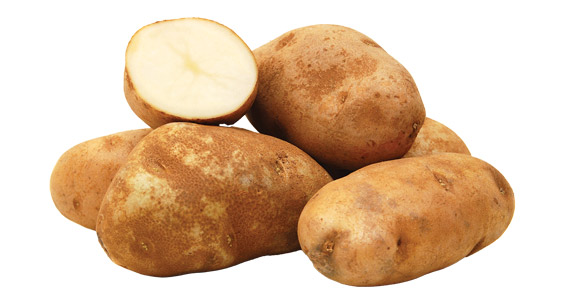
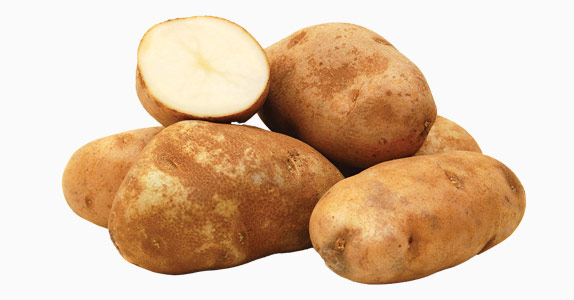
add second row of products, add Great Deals text, button and seperator line

Changed region(s): [[0.0593, 0.03, 0.9197, 0.96], [0.2967, 0.18, 0.3857, 0.27], [0.6527, 0.45, 0.6824, 0.48]]

diff --git a/index.html b/index.html
@@ -38,13 +38,15 @@
       font-size: 24px !important;
     }
     h3 {
-      margin: 10px 0 20px 0 !important;
+      margin: 0 !important;
     }
-
+    h3.productHead {
+      color: #005cab; 
+    }
     p {
       font-size: 16px;
       line-height: 20px;
-      color: #5C5C5C;
+      color: #005cab; 
       margin-top: 0;
     }
 
@@ -58,7 +60,7 @@
     }
 
     .column-wrapper {
-    padding: 0;
+    padding: 0 0 30px 0;
     font-size: 0;
     text-align: center;
     }
@@ -67,7 +69,7 @@
         vertical-align: top;
         width: 100%;
         display: inline-block;
-        color: #ffffff;
+        color: #fafafa;;
     }
     .column-one-half {
         max-width: 300px;
@@ -108,40 +110,40 @@
         text-decoration: inherit !important;
     }
 
-    a.recipe-btn,
+    a.deals-btn,
     a.site-btn,
     a.lifestyle-btn,
     a.optical-btn {
-        transition: all .7s !important;
+        transition: all .5s !important;
     }
     h3.recipe-title {
       color: #0B7E9A;
     }
-    .recipe-btn-title {
+    .deals-btn-title {
         color: #0B7E9A !important;
     }
-    .recipe-btn:hover,
+    .deals-btn:hover,
     .site-btn:hover {
-      background-color: #0B7E9A !important;
-      color: #ffffff !important;
+      background-color: #fafafa !important;
+      color: #005cab !important;
     }
     h3.lifestyle-title {
       color: #33C3DF;
     }
     .lifestyle-btn:hover {
       background-color: #33C3DF !important;
-      color: #ffffff !important;
+      color: #fafafa !important;
     }
     h3.optical-title {
       color: #91CA45;
     }
     .optical-btn:hover {
       background-color: #91CA45 !important;
-      color: #ffffff !important;
+      color: #fafafa !important;
     }
 
     a.recipe-btn-title:hover {
-      color: #ffffff !important;
+      color: #fafafa !important;
       transition: all 50ms ease-in-out;
     }
 
@@ -175,9 +177,14 @@
       }
       .column-one-half {
       	max-width: 600px !important;
+        margin: 0 !important;
       }
       img {
       	width: 100% !important;
+      }
+      .productHead,
+      .productDescription {
+        padding-left: 30px !important;
       }
       img.footer-logo {
         width: inherit !important;
@@ -189,7 +196,7 @@
         width: 45px !important;
       }
       .column-wrapper {
-        padding: 15px 0 !important;
+        padding: 15px 0 0 0 !important;
       }
       .padding {
         padding: 5px 20px 0 !important;
@@ -222,22 +229,20 @@
     @media (prefers-color-scheme: dark) {
       body, table {
         background: #2d2d2d !important;
-        color: #ffffff !important;
+        color: #fafafa !important;
       }
-      h3.recipe-title,
-      h3.lifestyle-title,
-      h3.optical-title {
-        color: #ffffff;
+      h3 {
+        color: #fafafa;
       }
       p {
-        color: #ffffff;
+        color: #fafafa;
       }
       .darkmode-transparent {
         background-color: transparent !important;
       }
       [data-ogsc] body, table {
         background: #2d2d2d !important;
-        color: #ffffff !important;
+        color: #fafafa !important;
       }
       [data-ogsc] .darkmode-transparent {
         background-color: transparent !important;
@@ -258,14 +263,14 @@
   <![endif]-->
 
 </head>
-<body class="body" id="body" xml:lang="eng" style="margin: 0; padding: 0; min-width: 100%; background-color: #fafdfe;">
+<body class="body" id="body" xml:lang="eng" style="margin: 0; padding: 0; min-width: 100%; background-color: #fafafa;;">
 
   <div style="width: 100%; table-layout: fixed; color: #3d3d3d; font-family: Helvetica, Arial, sans-serif; font-size: 16px; line-height: 1.4; margin: 0 auto; padding-bottom: 40px;">
 
-    <div style="max-width: 600px; background-color: #fafdfe; color: #3d3d3d; font-family: Helvetica, Arial, sans-serif; font-size: 16px; line-height: 1.4; box-shadow: 0 0 10px rgba(0, 0, 0, 0.2); margin: 0 auto;">
+    <div style="max-width: 600px; background-color: #fafafa;; color: #3d3d3d; font-family: Helvetica, Arial, sans-serif; font-size: 16px; line-height: 1.4; box-shadow: 0 0 10px rgba(0, 0, 0, 0.2); margin: 0 auto;">
 
       <!-- START PREHEADER TEXT -->
-      <div style="font-size: 0; color: #fafdfe; mso-line-height-rule: exactly; linke-height: 0; display: none; max-width: 0; max-height: 0; opacity: 0; overflow: hidden; mso-hide: all;">
+      <div style="font-size: 0; color: #fafafa;; mso-line-height-rule: exactly; linke-height: 0; display: none; max-width: 0; max-height: 0; opacity: 0; overflow: hidden; mso-hide: all;">
         Northern / NorthMart - Helping you save more!
         &zwnj;&nbsp;&#847;&zwnj;&nbsp;&#847;&zwnj;&nbsp;&#847;&zwnj;&nbsp;&#847;&zwnj;&nbsp;&#847;&zwnj;&nbsp;&#847;&zwnj;&nbsp;&#847;&zwnj;&nbsp;&#847;&zwnj;&nbsp;&#847;&zwnj;&nbsp;&#847;&zwnj;&nbsp;&#847;&zwnj;&nbsp;&#847;&zwnj;&nbsp;&#847;&zwnj;&nbsp;&#847;&zwnj;&nbsp;&#847;&zwnj;&nbsp;&#847;&zwnj;&nbsp;&#847;&zwnj;&nbsp;&#847;&zwnj;&nbsp;&#847;&zwnj;&nbsp;&#847;&zwnj;&nbsp;&#847;&zwnj;&nbsp;&#847;&zwnj;&nbsp;&#847;&zwnj;&nbsp;&#847;&zwnj;&nbsp;&#847;&zwnj;&nbsp;&#847;&zwnj;&nbsp;&#847;&zwnj;&nbsp;&#847;&zwnj;&nbsp;&#847;&zwnj;&nbsp;&#847;&zwnj;&nbsp;&#847;&zwnj;&nbsp;&#847;&zwnj;&nbsp;&#847;&zwnj;&nbsp;&#847;&zwnj;&nbsp;&#847;&zwnj;&nbsp;&#847;&zwnj;&nbsp;&#847;&zwnj;&nbsp;&#847;&zwnj;&nbsp;&#847;&zwnj;&nbsp;&#847;&zwnj;&nbsp;&#847;&zwnj;&nbsp;&#847;&zwnj;&nbsp;&#847;&zwnj;&nbsp;&#847;&zwnj;&nbsp;&#847;&zwnj;&nbsp;&#847;&zwnj;&nbsp;&#847;&zwnj;&nbsp;&#847;&zwnj;&nbsp;&#847;&zwnj;&nbsp;&#847;&zwnj;&nbsp;&#847;&zwnj;&nbsp;&#847;&zwnj;&nbsp;&#847;&zwnj;&nbsp;&#847;&zwnj;&nbsp;&#847;&zwnj;&nbsp;&#847;&zwnj;&nbsp;&#847;&zwnj;&nbsp;&#847;&zwnj;&nbsp;&#847;&zwnj;&nbsp;&#847;
       </div>
@@ -277,7 +282,7 @@
             <td style="padding: 0;">
       <![endif]-->
 
-      <table align="center" style="border-spacing: 0; border-collapse: collapse; color: #005cab; font-family: Helvetica, Arial, sans-serif; font-size: 16px; background-color: #fafafa; margin: 20px auto 40px; padding: 0; width: 100%; max-width: 600px;" role="presentation">
+      <table align="center" style="border-spacing: 0; border-collapse: collapse; color: #005cab; font-family: Helvetica, Arial, sans-serif; font-size: 16px; background-color: #fafafa; margin: 0 auto 40px; padding: 0; width: 100%; max-width: 600px;" role="presentation">
 
         <!-- START DATE BANNER -->
           <tr>
@@ -286,7 +291,7 @@
                 <table width="100%" align="center" border="0" cellspacing="0" cellpadding="0" style="border-spacing: 0;" role="presentation">
                   <tr>
                     <td class="emailDate" style="text-align: center; background-color: #005cab; font-size: 19px; font-family: Helvetica, Arial, sans-serif; font-weight: 700; text-transform: uppercase;  color: #fafafa; padding: 15px 10px 10px; ">
-                      <h1 style="font-size: 19px;">Prices in effect: March 7 - march 13, 2024</h1>
+                      <h1 style="font-size: 19px; color: #fafafa;">Prices in effect: December 21 - December 31, 2024</h1>
                     </td>
                   </tr>
                 </table>
@@ -296,9 +301,9 @@
 
         <!-- START HEADER/BANNER -->
           <tr>
-            <td style="padding: 0;">
+            <td style="padding: 0 0 8px 0;">
             
-                <table width="100%" align="center" border="0" cellspacing="0" cellpadding="0" style="border-spacing: 0; margin-bottom: 8px;" role="presentation">
+                <table width="100%" align="center" border="0" cellspacing="0" cellpadding="0" style="border-spacing: 0;" role="presentation">
                   <tr>
                     <td class="emailHero" style="text-align: center; padding: 0; font-size: 0;">
                       <img src="img/ncr_emailHero_1200x220.jpg" alt="NCR flyer hero" class="emailBanner" title="NCR flyer hero" width="600" border="0" style="width: 100%; max-width: 600px;">
@@ -311,7 +316,7 @@
 
         <!-- START HERO SECTION -->
           <tr>
-            <td style="padding: 0;">
+            <td style="padding: 0 0 20px 0;">
             
               <table width="100%" align="center" border="0" cellspacing="0" cellpadding="0" style="border-spacing: 0;" role="presentation">
                 <tr>
@@ -320,13 +325,20 @@
                   </td>
                 </tr>
               </table>
-              <table class="flyerHeroBanner" width="100%" align="center" border="0" cellspacing="0" cellpadding="0" style="border-spacing: 0; margin-bottom: 20px;" role="presentation">
+              <table class="flyerHeroBanner" width="100%" align="center" border="0" cellspacing="0" cellpadding="0" style="border-spacing: 0;" role="presentation">
                 <tr>
-                  <td class="flyerHeroProduct" style="text-align: left; background-color: #005cab; font-family: Helvetica, Arial, sans-serif; color: #ffffff; padding: 20px;">
-                    <h2 class="mainProduct" style="font-size: 32px; color: #ffffff;">Oranges Navel</h2>
-                    <p class="mainDescription" style="font-size: 18px; color: #ffffff; margin: 0;">Product of South America, #1 Grade, 3 lb bag</p>
+                  <td bgcolor="#005cab">
+
+                    <tr>
+                      <td class="flyerHeroProduct" style="text-align: left; background-color: #005cab; font-family: Helvetica, Arial, sans-serif; color: #fafafa; padding: 20px;">
+                        <h2 class="mainProduct" style="font-size: 32px; color: #fafafa;">Oranges Navel</h2>
+                        <p class="mainDescription" style="font-size: 18px; color: #fafafa; margin: 0;">Product of South America, #1 Grade, 3 lb bag</p>
+                      </td>
+                    </tr>
+                    
                   </td>
                 </tr>
+
               </table>
 
             </td>
@@ -339,7 +351,7 @@
             <table width="100%" align="center" border="0" cellspacing="0" cellpadding="0" style="border-spacing: 0;" role="presentation">
             
               <tr>
-                <td class="column-wrapper" style="padding: 0; font-size: 0; text-align: left;">
+                <td class="column-wrapper" style="font-size: 0; text-align: left;">
                 
                   <!--[if mso]>
                     <table width="100%" style="border-spacing: 0;" role="presentation">
@@ -349,18 +361,18 @@
 
                   <table class="column column-one-half" width="100%" style="margin: 0 10px; border-spacing: 0; vertical-align: top; width: 100%; max-width: 280px; display: inline-block;" role="presentation">
                     <tr>
-                      <td class="padding" style="padding: 0;">
-                        <img src="img/red-or-white-potatoes_574x300.png" alt="Red or White Potatoes" style="margin-bottom: 15px;" width="280">
+                      <td class="padding" style="padding: 0; margin-bottom: 15px;">
+                        <img src="img/red-or-white-potatoes_574x300.jpg" alt="Red or White Potatoes" style="margin-bottom: 15px;" width="280">
                       </td>
                     </tr>
+
                     <tr>
                       <td>
-                        <table>
+                        <table width="100%" align="center" border="0" cellspacing="0" cellpadding="0" style="border-spacing: 0;" role="presentation">
                           <tr>
-                            <td style="padding: 0; vertical-align: top; text-align: left;">
-                              <h3 class="secondProductHead" style="font-size: 20px; font-weight: 700; color: #005cab; margin: 0 !important; padding: 0 10px;">Red or White Potatoes</h3>
-                              <p class="productDescription" style="font-size: 16px; font-weight: 500; color: #005cab; padding: 0 10px;">Product of Canada,
-                                #1 Grade, 5 lb bag</p>
+                            <td style="font-family: Helvetica, Arial, sans-serif; text-align: left; padding: 0; vertical-align: top; ">
+                              <h3 class="productHead" style="font-size: 20px; font-weight: 700; margin: 0 !important;">Red or White Potatoes</h3>
+                              <p class="productDescription" style="font-size: 16px; font-weight: 500;">Product of Canada, #1 Grade, 5 lb bag</p>
                             </td>
                           </tr>
                         </table>
@@ -383,8 +395,8 @@
                         <table width="100%" style="border-spacing: 0; width: 100%;" role="presentation">
                           <tr>
                             <td style="padding: 0; vertical-align: top; text-align: left; width: 65%;">
-                              <h3 class="secondProductHead" style="font-size: 20px; font-weight: 700; color: #005cab; margin: 0 !important; padding: 0 0 0 10px;">Chicken Drumsticks</h3>
-                              <p class="productDescription" style="font-size: 16px; font-weight: 500; color: #005cab; padding: 0 10px;">Big Deal Pack</p>
+                              <h3 class="productHead" style="font-size: 20px; font-weight: 700; margin: 0 !important; padding: 0;">Chicken Drumsticks</h3>
+                              <p class="productDescription" style="font-size: 16px; font-weight: 500;">Big Deal Pack</p>
                             </td>
                           </tr>
                         </table>
@@ -398,6 +410,120 @@
           </td>
         </tr>
         <!-- END PRODUCT SECTION -->
+
+        <!-- START PRODUCT SECTION -->
+        <tr>
+          <td class="top-row-items" style="padding: 0; display: block;">
+            <table width="100%" align="center" border="0" cellspacing="0" cellpadding="0" style="border-spacing: 0;" role="presentation">
+            
+              <tr>
+                <td class="column-wrapper" style="font-size: 0; text-align: left;">
+                
+                  <!--[if mso]>
+                    <table width="100%" style="border-spacing: 0;" role="presentation">
+                      <tr>
+                        <td width="280" valign="top" style="padding: 0;"
+                  <![endif]-->
+
+                  <table class="column column-one-half" width="100%" style="margin: 0 10px; border-spacing: 0; vertical-align: top; width: 100%; max-width: 280px; display: inline-block;" role="presentation">
+                    <tr>
+                      <td class="padding" style="padding: 0; margin-bottom: 15px;">
+                        <img src="img/hamburger-helper_574x300.jpg" alt="Red or White Potatoes" style="margin-bottom: 15px;" width="280">
+                      </td>
+                    </tr>
+
+                    <tr>
+                      <td>
+                        <table width="100%" align="center" border="0" cellspacing="0" cellpadding="0" style="border-spacing: 0;" role="presentation">
+                          <tr>
+                            <td style="font-family: Helvetica, Arial, sans-serif; text-align: left; padding: 0; vertical-align: top; ">
+                              <h3 class="productHead" style="font-size: 20px; font-weight: 700; margin: 0 !important;">Betty Crocker
+                                Hamburger Helper</h3>
+                              <p class="productDescription" style="font-size: 16px; font-weight: 500;">Selected varieties,
+                                158 - 220 g</p>
+                            </td>
+                          </tr>
+                        </table>
+                      </td>
+                    </tr>
+                  </table>
+
+                  <!--[if mso]>
+                  </td><td width="280" valign="top" style="padding: 0;">
+                  <![endif]-->
+
+                  <table class="column column-one-half" width="100%" style="margin: 0 10px; border-spacing: 0; vertical-align: top; width: 100%; max-width: 280px; display: inline-block;" role="presentation">
+                    <tr>
+                      <td class="padding" style="padding: 0; margin-bottom: 15px;">
+                        <img src="img/tim-hortons-coffee_574x300.jpg" alt="Chicken Drumsticks" style="margin-bottom: 15px;" width="280">
+                      </td>
+                    </tr>
+                    <tr>
+                      <td>
+                        <table width="100%" style="border-spacing: 0; width: 100%;" role="presentation">
+                          <tr>
+                            <td style="padding: 0; vertical-align: top; text-align: left; width: 65%;">
+                              <h3 class="productHead" style="font-size: 20px; font-weight: 700; margin: 0 !important; padding: 0;">Tim Hortons
+                                Coffee</h3>
+                              <p class="productDescription" style="font-size: 16px; font-weight: 500;">Selected varieties,
+                                300 g</p>
+                            </td>
+                          </tr>
+                        </table>
+                      </td>
+                    </tr>
+                  </table>
+
+                </td>
+              </tr>
+            </table>
+          </td>
+        </tr>
+        <!-- END PRODUCT SECTION -->
+
+        <!-- START PRODUCT BUTTON SECTION/MODULE -->
+        <tr>
+          <td align="center" style="padding: 20px 0 30px 20px;"> <!-- align & padding -->
+            <table border="0" align="center" cellspacing="0" cellpadding="0" style="border-spacing: 0;" role="presentation"> <!-- standard & alignment -->
+              <tr>
+                <td > 
+                  <h2 style="font-size: 36px !important; line-height: 36px; font-weight: 700; font-family: Helvetica, Arial, sans-serif; color: #005cab; margin-bottom: 20px;">For more Great Deals</h2>
+                </td>
+              </tr>
+
+              <tr>
+                <td align="center" style="padding: 0;">
+                  <table align="center" border="0" cellspacing="0" cellpadding="0" role="presentation">
+
+                    <tr>
+                      <td align="center" bgcolor="#005cab" style="border-radius: 5px;" >
+                        <a href="https://justforyouiqaluit.ca/optical/" target="_blank" style="font-size: 20px; font-weight: 500; text-decoration: none; text-transform: uppercase; color: #fafafa; background-color: #005cab; border: 1px solid #005cab; border-radius: 5px; padding: 14px 60px 14px 60px; display: inline-block;">View Flyer</a>
+                      </td>
+                    </tr>
+
+                  </table>
+                </td>
+              </tr>
+
+            </table>
+          </td>
+        </tr>
+        <!-- END PRODUCT BUTTON SECTION/MODULE -->
+
+        <!-- START SEPARATOR -->
+        <tr>
+          <td style="margin: 0 20px 20px 20px !important;">
+
+            <table width="100%" align="center" border="0" cellspacing="0" cellpadding="0" cellspacing="0" style="border-spacing: 0;" role="presentation">
+              <tr>
+                <td>
+                  <hr style="border: 1px solid #005cab; background-color: #005cab; color: #005cab; margin: 0 20px 20px 20px;">
+                </td>
+              </tr>
+            </table>
+          </td>
+        </tr>
+        <!-- END SEPARATOR -->
 
         <!-- START HOLIDAY SECTION -->
         <!-- END HOLIDAY SECTION -->
